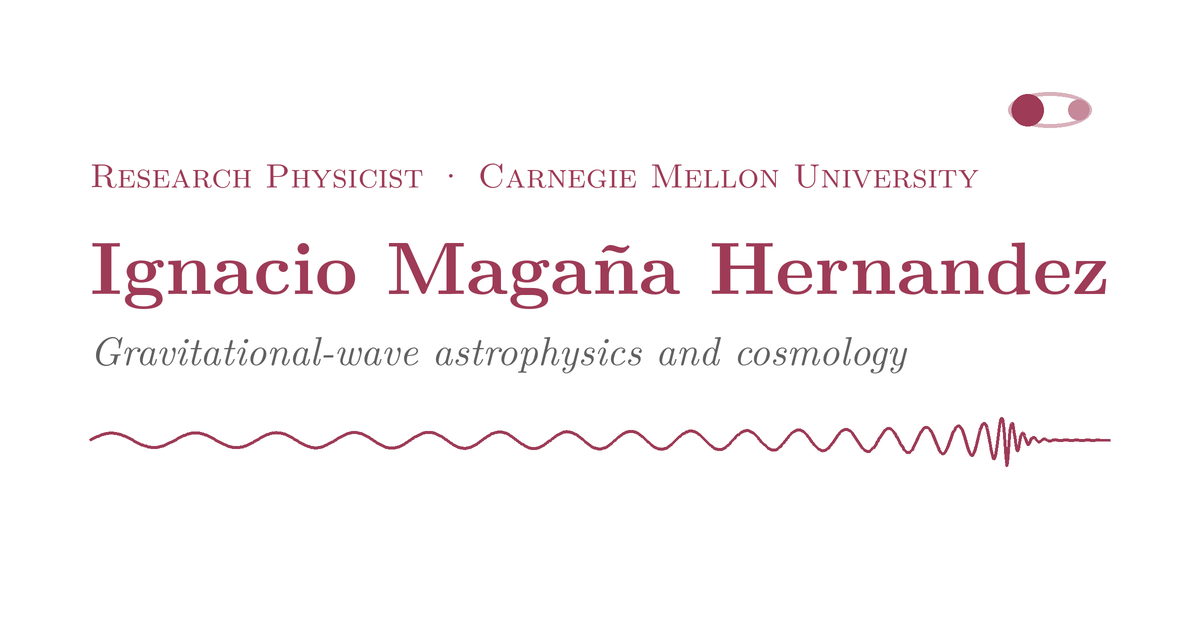
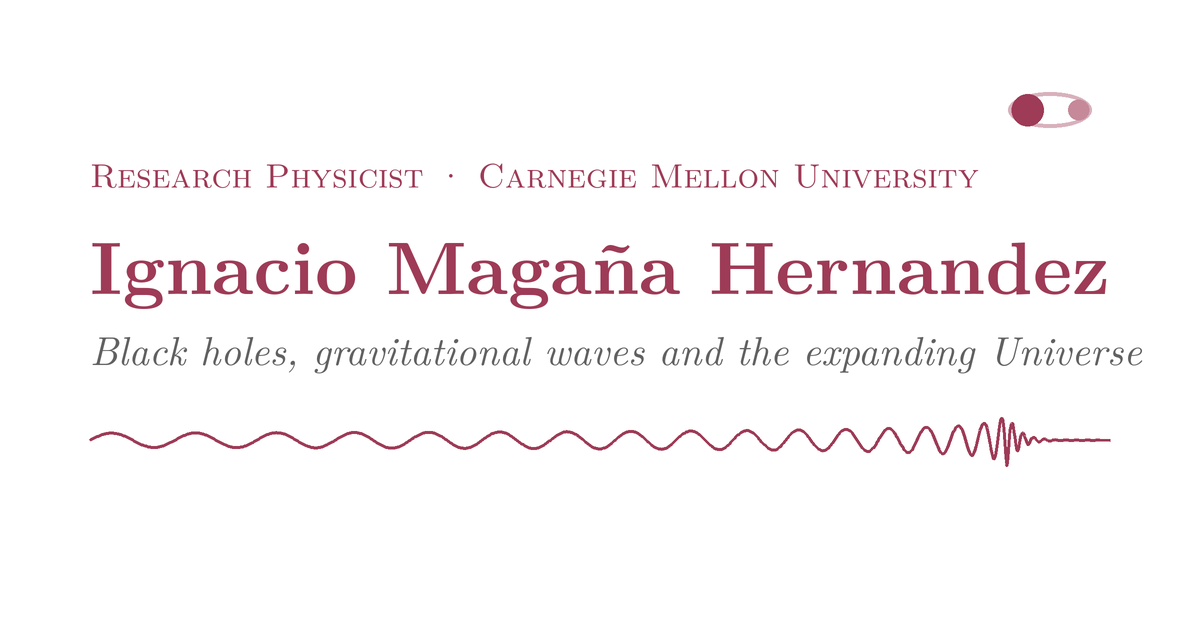
Plain-language text for a general reader
- Tagline, hero line, first-person bio, meta descriptions, research intro
  and the five research themes rewritten without jargon (text drafted with
  the hubble session; every claim traces to the CV)
- Plain link labels on /research/ and plain Software descriptions
- Social card subtitle matches the new hero line

Claude-Session: https://claude.ai/code/session_01L6W2Gqo5HL7aHCvWByMsGv

Changed region(s): [[0.0617, 0.5429, 0.9558, 0.6032]]

diff --git a/index.html b/index.html
@@ -3,8 +3,9 @@ layout: home
 title: About
 description: >-
   Ignacio Magaña Hernandez is a Research Physicist at Carnegie Mellon
-  University studying binary black hole populations, the galaxies that host
-  their mergers, and gravitational-wave measurements of the Hubble constant.
+  University who studies where pairs of black holes form and merge, the
+  galaxies they merge in, and how their gravitational waves measure the
+  expansion of the Universe.
 ---
 
 <!-- ============================== HERO ============================== -->
@@ -13,7 +14,7 @@ description: >-
     <div class="hero__text">
       <p class="hero__eyebrow">Research Physicist · Carnegie Mellon University</p>
       <h1 class="hero__name">Ignacio&nbsp;Magaña Hernandez</h1>
-      <p class="hero__role">Gravitational-wave astrophysics and cosmology</p>
+      <p class="hero__role">Black holes, gravitational waves and the expanding Universe</p>
       {% include chirp.html %}
       <p class="hero__lede">{{ site.tagline }}</p>
       <div class="actions">
@@ -45,18 +46,17 @@ description: >-
     <h2 class="rule-head">{% include binary.html %}About</h2>
     <div class="prose">
       <p>
-        I am a Research Physicist in the Department of Physics at Carnegie
-        Mellon University, where I was a McWilliams Postdoctoral Fellow from
-        2023 to 2026. I study where binary black holes merge and how long after
-        star formation they do so, combining gravitational-wave population
-        inference with DESI galaxy spectroscopy. My nonparametric population
-        models found evidence for the onset of the pair-instability mass gap,
-        and my spectral-siren analyses measure the Hubble constant from the
-        black-hole mass distribution. I lead the DESI dark-siren analysis and
-        built <code>darksirens</code>, a GPU-accelerated framework for joint
-        population and cosmology inference. During my PhD at the University of
-        Wisconsin–Milwaukee, I co-developed <code>gwcosmo</code> and led the
-        LIGO–Virgo Hubble-constant analysis of GW190814.
+        I am a Research Physicist at Carnegie Mellon University, where I was a
+        McWilliams Postdoctoral Fellow (2023–2026). I study merging black hole
+        pairs, using their gravitational waves (ripples in spacetime) to learn
+        where they form, which galaxies they merge in, and how fast the Universe
+        expands. My work found evidence for the start of a gap: a range of
+        masses where stars are expected to blow apart and leave no black hole.
+        I lead the DESI galaxy survey's measurement of the expansion rate from
+        these mergers and built the open-source software
+        <code>darksirens</code>. During my PhD at the University of
+        Wisconsin–Milwaukee, I helped develop <code>gwcosmo</code> and led the
+        LIGO–Virgo measurement of the expansion rate from GW190814.
       </p>
     </div>
   </div>

diff --git a/research.html b/research.html
@@ -3,9 +3,9 @@ layout: home
 title: Research
 permalink: /research/
 description: >-
-  Research on binary black hole populations, the galaxies that host their
-  mergers, formation histories and delay times, and gravitational-wave
-  measurements of the Hubble constant.
+  Research on pairs of black holes: their masses, the galaxies where they
+  merge, how long they take to merge, and how their gravitational waves
+  measure the expansion of the Universe.
 ---
 
 <section class="section section--tight">
@@ -39,10 +39,10 @@ description: >-
   <div class="container">
     <h2 class="rule-head">{% include binary.html %}Software</h2>
     <ul class="software prose">
-      <li><strong>darksirens</strong> (designer and developer): GPU-accelerated (JAX) hierarchical population and cosmological inference for gravitational-wave sirens. <a href="https://github.com/ignaciomagana/darksirens-core">github.com/ignaciomagana/darksirens-core</a></li>
-      <li><strong>gwcat</strong>: preprocessing of GWTC parameter-estimation files and LVK injection sets for darksirens. <a href="https://github.com/ignaciomagana/gwcat">github.com/ignaciomagana/gwcat</a></li>
-      <li><strong>tinyns</strong>: a lightweight JAX nested sampler. <a href="https://github.com/ignaciomagana/tinyns">github.com/ignaciomagana/tinyns</a></li>
-      <li><strong>gwcosmo</strong> (co-developer): LVK gravitational-wave cosmology code. <a href="https://git.ligo.org/lscsoft/gwcosmo">git.ligo.org/lscsoft/gwcosmo</a></li>
+      <li><strong>darksirens</strong> (designer and developer): software that runs on graphics cards to work out the properties of black hole pairs and the expansion rate of the Universe together. <a href="https://github.com/ignaciomagana/darksirens-core">github.com/ignaciomagana/darksirens-core</a></li>
+      <li><strong>gwcat</strong>: prepares the published LIGO–Virgo–KAGRA measurements of each merger, and the simulated signals that show what the detectors can and cannot see, for use in darksirens. <a href="https://github.com/ignaciomagana/gwcat">github.com/ignaciomagana/gwcat</a></li>
+      <li><strong>tinyns</strong>: a small, fast program for fitting models to data and comparing them. <a href="https://github.com/ignaciomagana/tinyns">github.com/ignaciomagana/tinyns</a></li>
+      <li><strong>gwcosmo</strong> (co-developer): the LIGO–Virgo–KAGRA code for measuring the expansion of the Universe with gravitational waves. <a href="https://git.ligo.org/lscsoft/gwcosmo">git.ligo.org/lscsoft/gwcosmo</a></li>
     </ul>
     <p class="muted prose" style="margin-top:1.5rem">
       The full record is on the <a href="{{ '/publications/' | relative_url }}">publications</a>

diff --git a/tools/make_assets.py b/tools/make_assets.py
@@ -79,7 +79,7 @@ def og_image(path):
     caps = ImageFont.truetype(LM + "lmromancaps10-regular.otf", 34 * s)
     d.text((x0, 150 * s), "Research Physicist · Carnegie Mellon University", font=caps, fill=ROSE)
     d.text((x0, 210 * s), "Ignacio Magaña Hernandez", font=bold, fill=ROSE)
-    d.text((x0, 320 * s), "Gravitational-wave astrophysics and cosmology", font=ital, fill=(97, 97, 97))
+    d.text((x0, 320 * s), "Black holes, gravitational waves and the expanding Universe", font=ital, fill=(97, 97, 97))
     pts = chirp_points()
     xw, yc, amp = (W - 180) * s, 440 * s, 26 * s
     d.line([(x0 + x * xw, yc - amp * y) for x, y in pts], fill=ROSE, width=3 * s, joint="curve")
